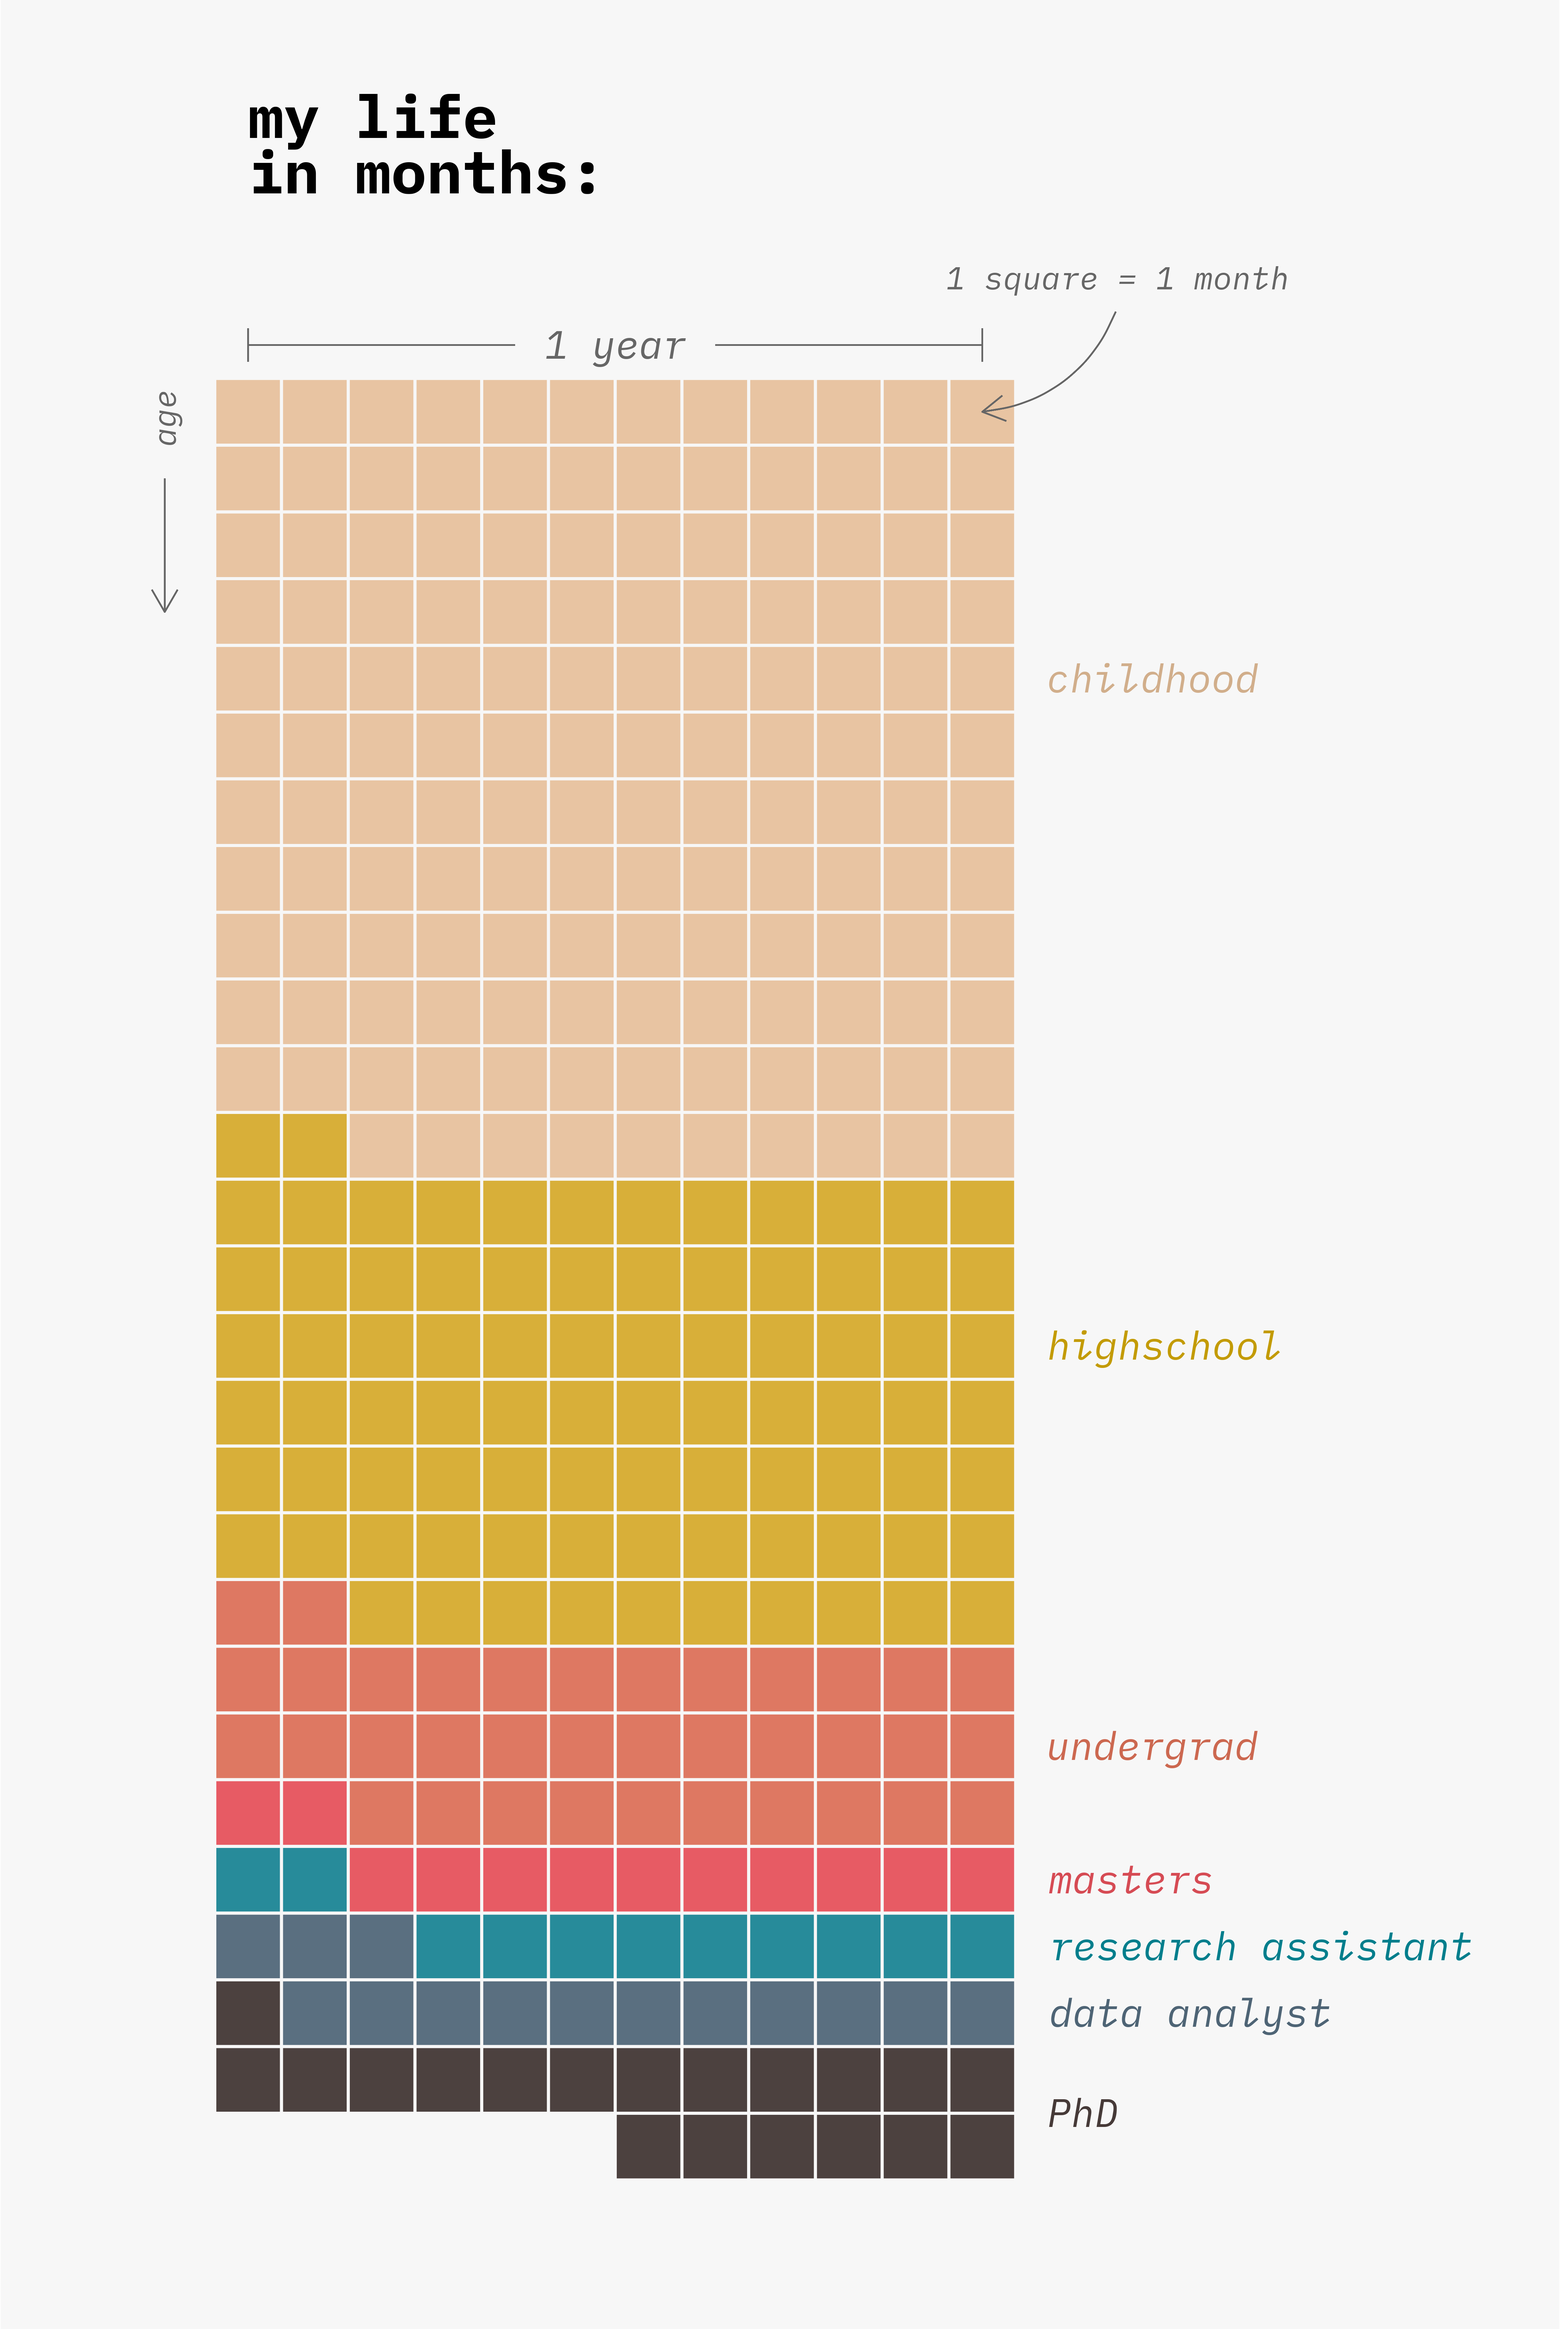
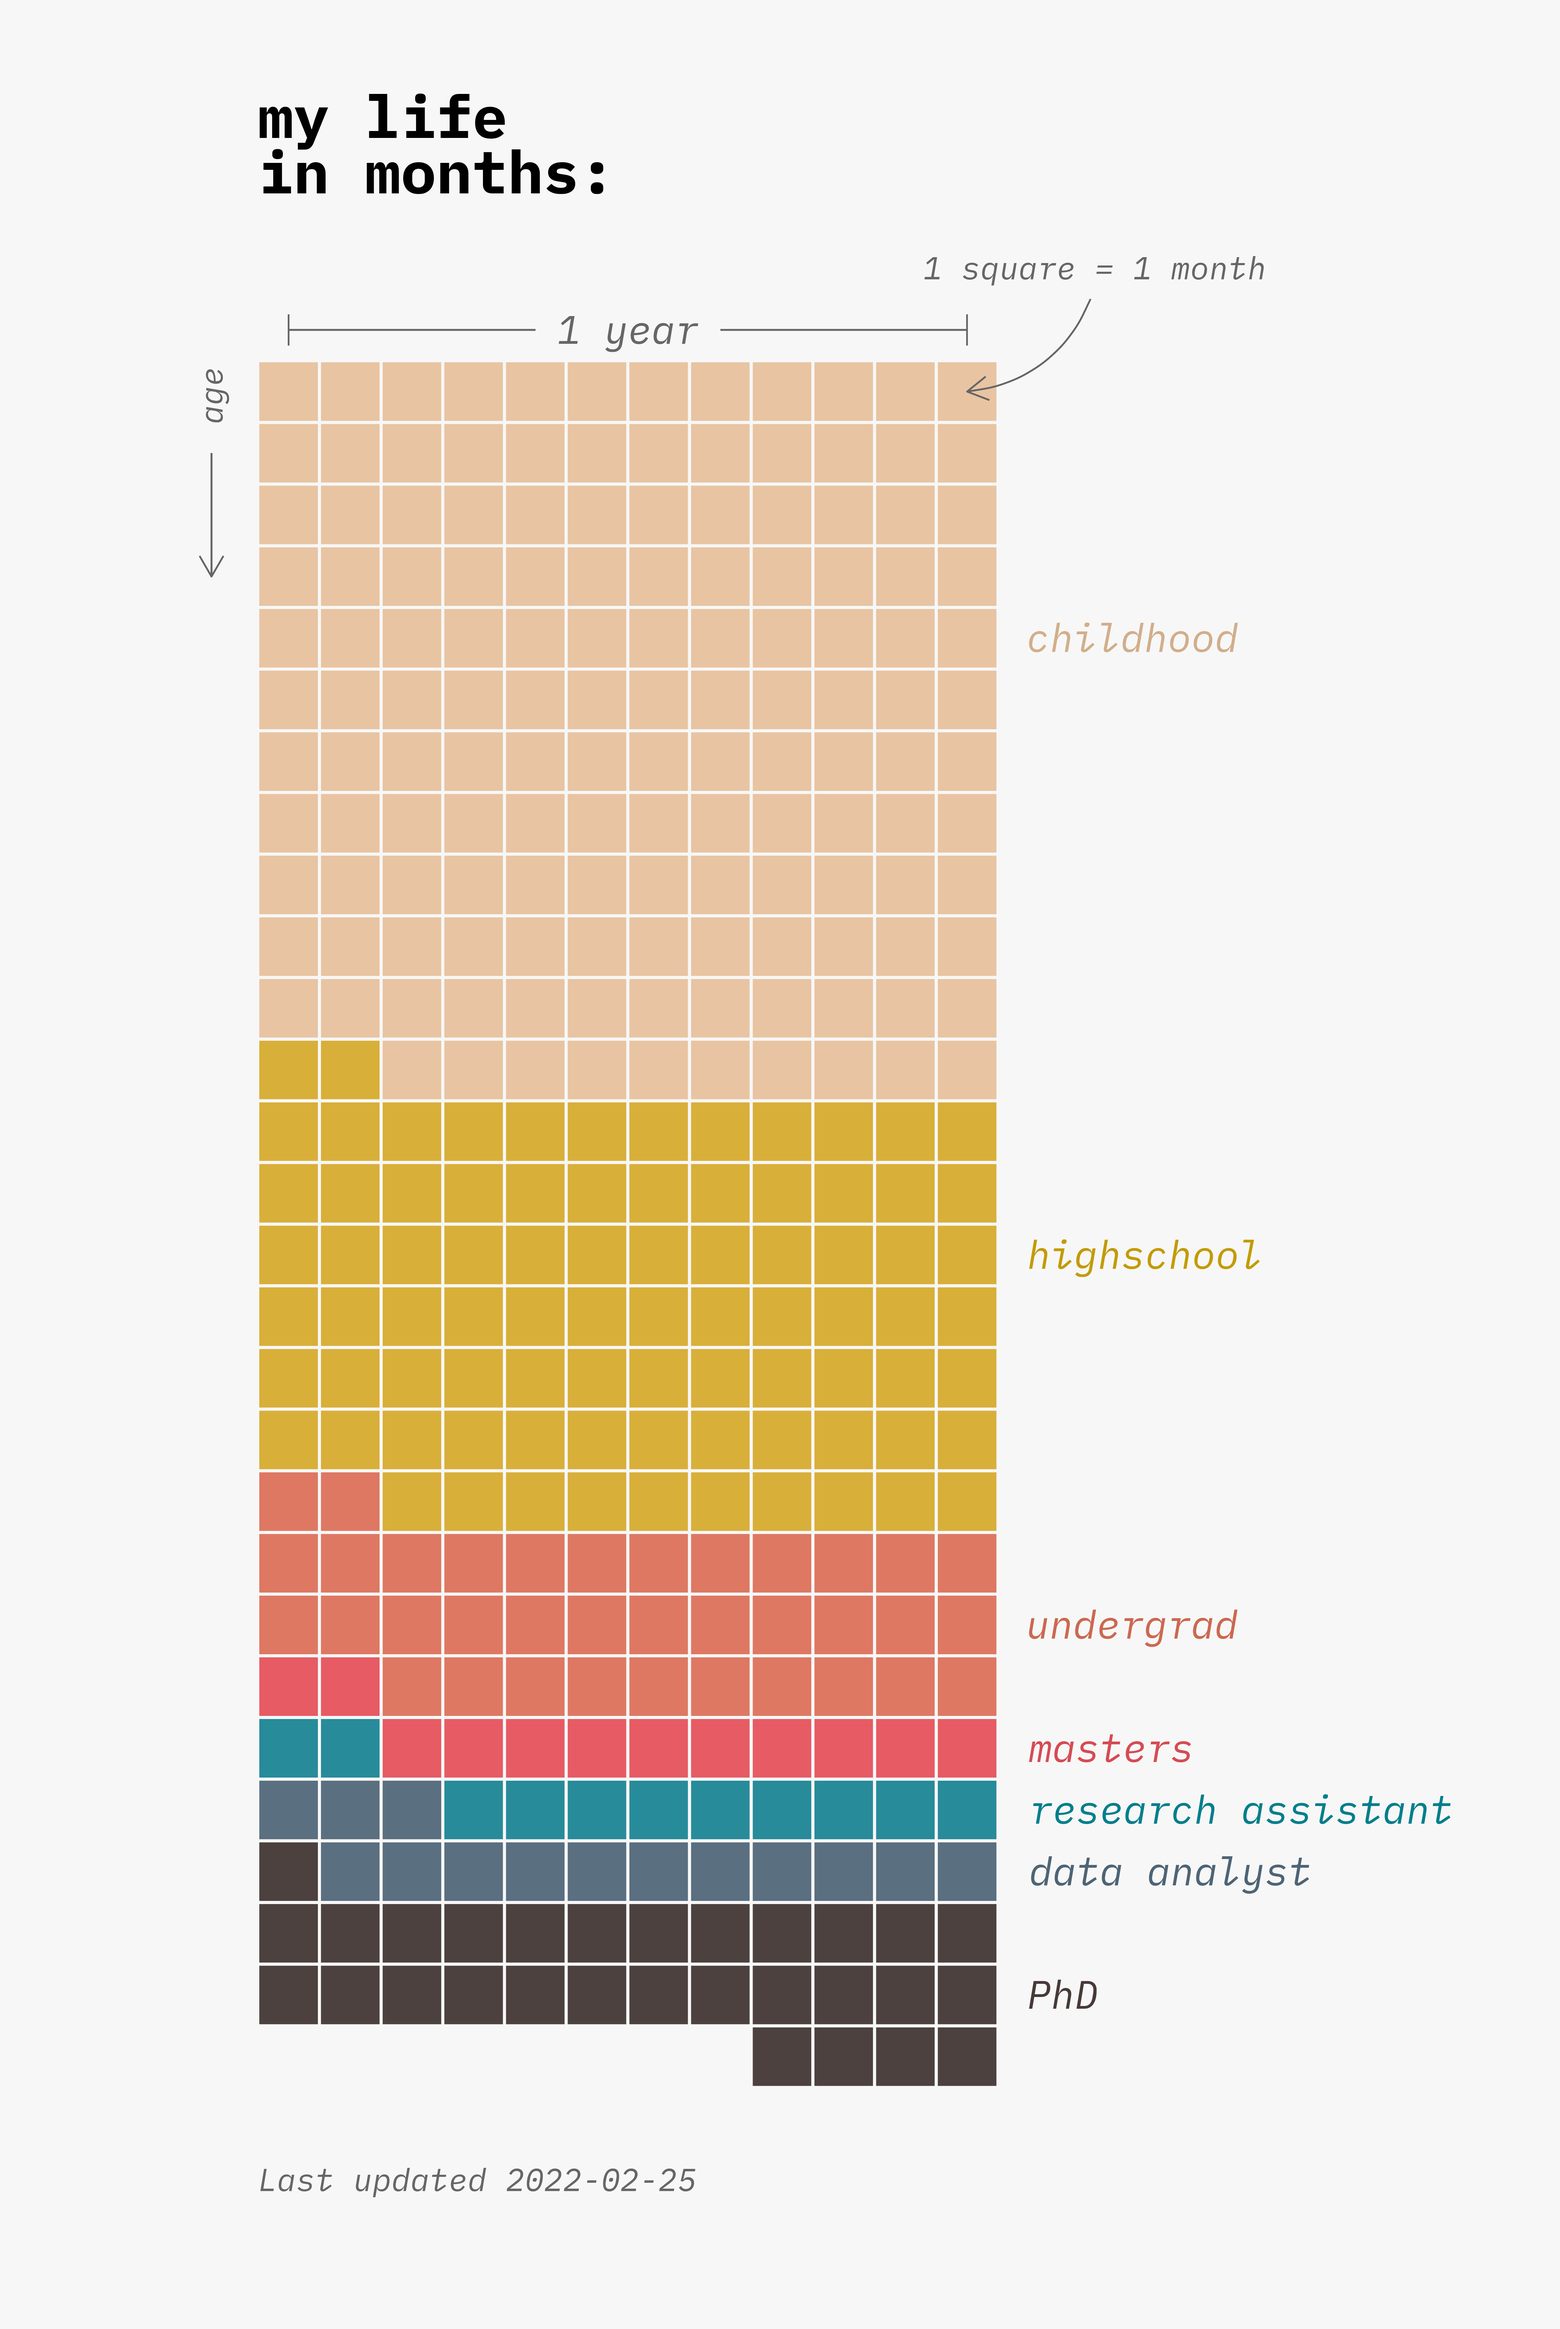
update and add "last updated"

diff --git a/README.md b/README.md
@@ -1,5 +1,4 @@
 
-My life in months. Code from [Sharla Gelfand](https://github.com/sharlagelfand/mylifeinmonths/) who was inspired by [Isabella
-Benabaye](https://isabella-b.com/blog/my-life-in-months/)\. Adapted for my own use.
+# mylifeinmonths
 
 <img src="life_in_months.png" width="7500" />
